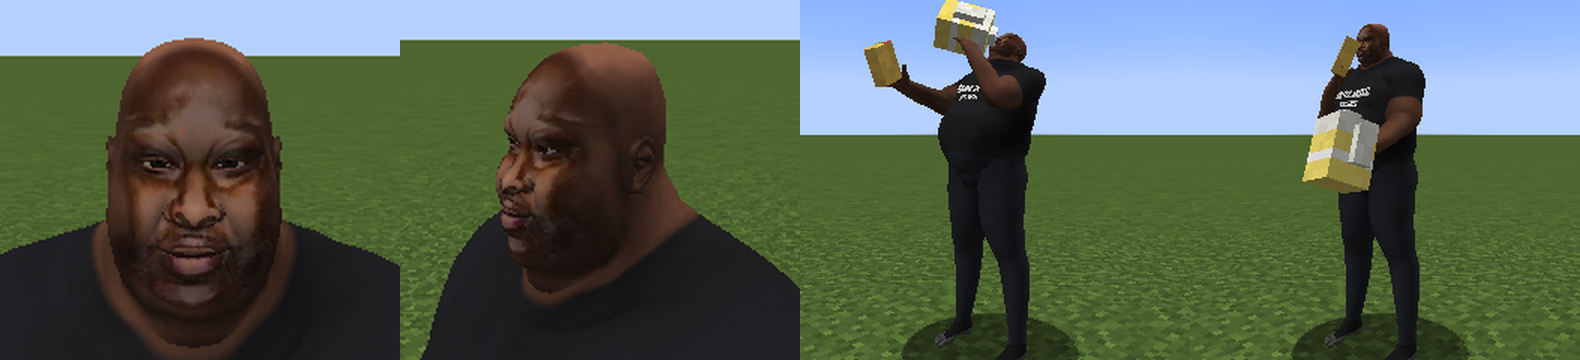
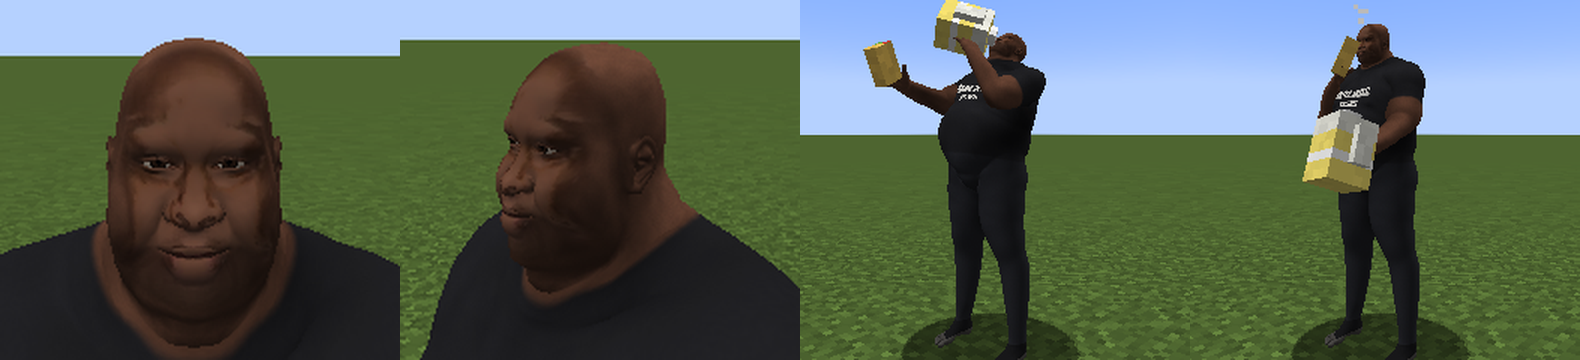
Badlands Chugs: clean-shaven, matte face; release rule; v0.3.3
- gen_chugs_mesh.py shaves the photo before projecting it (harmonic fill
  over the mustache and goatee, mouth kept), flattens its highlights
  harder, evens its hue to his skin tone, and tones the scalp sheen down
- CLAUDE.md: every build is a tagged GitHub release with a changelog
- mod_version 0.3.3

diff --git a/tools/gen_chugs_mesh.py b/tools/gen_chugs_mesh.py
@@ -582,10 +582,57 @@ def eyeballs(pos, nrm, B):
     return col
 
 
+# He is clean-shaven, but the photo has a mustache and goatee: inside SHAVE the photo is repainted
+# with the skin around it (a harmonic fill from the edge in), except the open mouth (KEEP).
+# Photo pixels, (cx, cy, rx, ry) ellipses.
+SHAVE = [(683, 352, 62, 22), (683, 448, 86, 54), (628, 400, 30, 52), (738, 400, 30, 52)]
+KEEP = (682, 388, 42, 27)
+
+
+def soft_blur(a, r):
+    """Near-Gaussian blur of a float image: three box passes of radius r/2 along each axis."""
+    k = max(1, int(r // 2))
+    for axis in (0, 1):
+        for _ in range(3):
+            pad = np.pad(a, [(k + 1, k) if i == axis else (0, 0) for i in range(a.ndim)], mode='edge')
+            c = np.cumsum(pad, axis=axis)
+            hi = np.take(c, range(2 * k + 1, c.shape[axis]), axis=axis)
+            lo = np.take(c, range(0, c.shape[axis] - 2 * k - 1), axis=axis)
+            a = (hi - lo) / (2 * k + 1)
+    return a
+
+
+def ellipse_mask(shape, cx, cy, rx, ry, soft=0.25):
+    yy, xx = np.mgrid[0:shape[0], 0:shape[1]]
+    return 1 - smoothstep(1 - soft, 1.0, ((xx - cx) / rx) ** 2 + ((yy - cy) / ry) ** 2)
+
+
+def shave(photo):
+    x0, y0, x1, y1 = 540, 280, 830, 540           # work on the lower face only
+    crop = photo[y0:y1, x0:x1].copy()
+    zone = np.zeros(crop.shape[:2])
+    for cx, cy, rx, ry in SHAVE:
+        zone = np.maximum(zone, ellipse_mask(zone.shape, cx - x0, cy - y0, rx, ry))
+    zone *= 1 - ellipse_mask(zone.shape, KEEP[0] - x0, KEEP[1] - y0, KEEP[2], KEEP[3], 0.35)
+    unknown = zone > 0.02
+    fill = crop.copy()
+    fill[unknown] = crop[~unknown].mean(0)
+    for _ in range(1500):                          # Jacobi: each unknown pixel -> mean of its neighbours
+        avg = (np.roll(fill, 1, 0) + np.roll(fill, -1, 0) + np.roll(fill, 1, 1) + np.roll(fill, -1, 1)) / 4
+        fill[unknown] = avg[unknown]
+    # keep a trace of the skin's fine texture so the patch doesn't look airbrushed
+    detail = crop - np.stack([soft_blur(crop[..., c], 6) for c in range(3)], 2)
+    fill = fill + np.clip(detail, -6, 6) * 0.5
+    out = photo.copy()
+    out[y0:y1, x0:x1] = crop + (fill - crop) * zone[..., None]
+    return out
+
+
 def paint(B, faces):
     # sharpened: the face is ~250 texels across in the atlas and mip-mapping softens it further
     photo = Image.open(fetch('photo.jpg', PHOTO_URL)).convert('RGB')
-    photo = np.asarray(photo.filter(ImageFilter.UnsharpMask(radius=4, percent=90, threshold=2)), float)
+    photo = np.asarray(photo.filter(ImageFilter.UnsharpMask(radius=3, percent=50, threshold=3)), float)
+    photo = shave(photo)
     tris, tri_uv = [], []
     eye_flag = np.zeros((len(B['V']), 1))
     eye_flag[B['eye_verts']] = 1
@@ -622,16 +669,19 @@ def paint(B, faces):
     # tame the photo's specular highlights: bright, desaturated pixels go grey once balanced, so pull
     # them down and back to his skin hue; then balance the photo's warm light to his tone
     lum = face.mean(1, keepdims=True)
-    knee = np.percentile(lum[core], 75)
+    knee = np.percentile(lum[core], 55)
     tint = np.median(face[core], axis=0)
     hi = smoothstep(knee * 0.95, knee * 1.4, lum)
-    lum2 = np.where(lum > knee, knee + (lum - knee) * 0.25, lum)
+    lum2 = np.where(lum > knee, knee + (lum - knee) * 0.1, lum)
     face = face * (lum2 / np.maximum(lum, 1e-6))
     face = face + (tint * lum2 / tint.mean() - face) * (0.85 * hi)
     face *= SKIN / tint
-    # expand contrast about his skin tone so the goatee, mustache, brows and eyes stay dark and crisp
+    # a little contrast about his skin tone keeps the brows, eyes and nostrils crisp
     ratio = face.mean(1, keepdims=True) / SKIN.mean()
-    face *= np.clip(ratio, 0.05, 4) ** 0.45
+    face *= np.clip(ratio, 0.05, 4) ** 0.2
+    # even out the photo's colour (its warm light leaves orange blotches): keep its light and shade,
+    # take most of the hue from his skin tone
+    face = face + (face.mean(1, keepdims=True) * (SKIN / SKIN.mean()) - face) * 0.6
     skin = SKIN
 
     # --- skin everywhere else: his tone, pores, occlusion, the shine on his head
@@ -641,7 +691,7 @@ def paint(B, faces):
     occl = (0.45 + 0.55 * ao)[:, None]
     base = skin * (1 + 0.10 * n_mid + 0.07 * n_fine)[:, None] * occl
     shine = head * smoothstep(9.0, 9.7, y) * smoothstep(0.35, 0.9, nrm[:, 1])
-    base = base + (skin * 1.9 - base) * (0.45 * shine)[:, None]
+    base = base + (skin * 1.5 - base) * (0.18 * shine)[:, None]   # a soft sheen, not a gloss
     face = face * (0.85 + 0.15 * ao)[:, None]
     col = base + (face - base) * wf[:, None]
     col[eye] = eyeballs(pos[eye], nrm[eye], B)

diff --git a/CLAUDE.md b/CLAUDE.md
@@ -208,7 +208,9 @@ Model, texture and animations are **generated by scripts** — edit the scripts,
   down, folds MakeHuman's weights onto the rig, bakes ambient occlusion, and paints the MakeHuman UV
   atlas (2048²) in 3D: the photo is warped onto the face with a thin-plate spline through `LANDMARKS`
   (mesh vertex ↔ photo pixel; silhouette landmarks are `('side', y, sign)`), white-balanced to `SKIN`,
-  de-specularised and contrast-boosted; painted eyeballs; his black BADLANDS / CHUGS tee, black pants
+  matte (highlights flattened, hue evened to his skin), and **clean-shaven** — he has no facial hair,
+  so `shave()` repaints the photo's mustache/goatee (`SHAVE` ellipses, `KEEP` = the mouth) with the
+  skin around them; painted eyeballs; his black BADLANDS / CHUGS tee, black pants
   and shoes. Writes `meshes/badlands_chugs.json`, `textures/entity/badlands_chugs_mesh.png`,
   `geo/entity/badlands_chugs_mesh.geo.json` (jug and taco cubes reuse `badlands_chugs.png`, scaled 0.8).
   His rig has two extra bones, **`forearm_r` / `forearm_l`** (elbows): only his own animations
@@ -425,11 +427,30 @@ and logs every vendor/customer state change. `/papon serve` finishes the current
 `level-type=minecraft\:flat` in `run/server.properties` gives a predictable test site.
 Walking Crops is not in the dev run, so the coupon handoff can only be tested in the real pack.
 
+## Releases (every build)
+
+**Every jar build gets a GitHub release, even small ones** (the user asked for this). For each build:
+1. Bump `mod_version` in `gradle.properties` (never reuse a version), merge to `main`, push.
+2. Build in the main checkout (see "Building and testing").
+3. Tag `main` as `v<version>` and push the tag:
+   ```bash
+   git tag -a v0.3.3 -m "Papon 0.3.3" && git push origin v0.3.3
+   ```
+4. Publish a release for the tag with the jar attached and a **changelog** (what changed since the
+   previous tag, in player-facing terms, plus notable dev/tooling changes):
+   ```bash
+   gh release create v0.3.3 build/libs/papon-0.3.3.jar --title "Papon 0.3.3" --notes-file <changelog.md>
+   ```
+   `gh` is installed with Homebrew; if it is not logged in, `GH_TOKEN` can come from the git
+   credential helper (`printf 'protocol=https\nhost=github.com\n\n' | git credential fill`).
+5. Tell the user the release URL.
+
 ## Rules for working here
 - Work on a `claude/*` branch, commit often and push (the user asked for this).
 - Build release jars only in the main checkout `~/Documents/Coding/Papon` after merging to
   `main` — never in a worktree (the user asked for this).
 - Regenerate assets with the `tools/*.py` scripts; re-save the `.bbmodel` after model changes.
 - Bump `mod_version` on every jar handed to the pack; never ship two jars with the same version.
+- Every build is published as a tagged GitHub release with a changelog (see "Releases").
 - Don't push anything to the Groid server; the instance's `CLAUDE.md` governs that.
 - Keep this file current: update the status table and notes when you land something.
